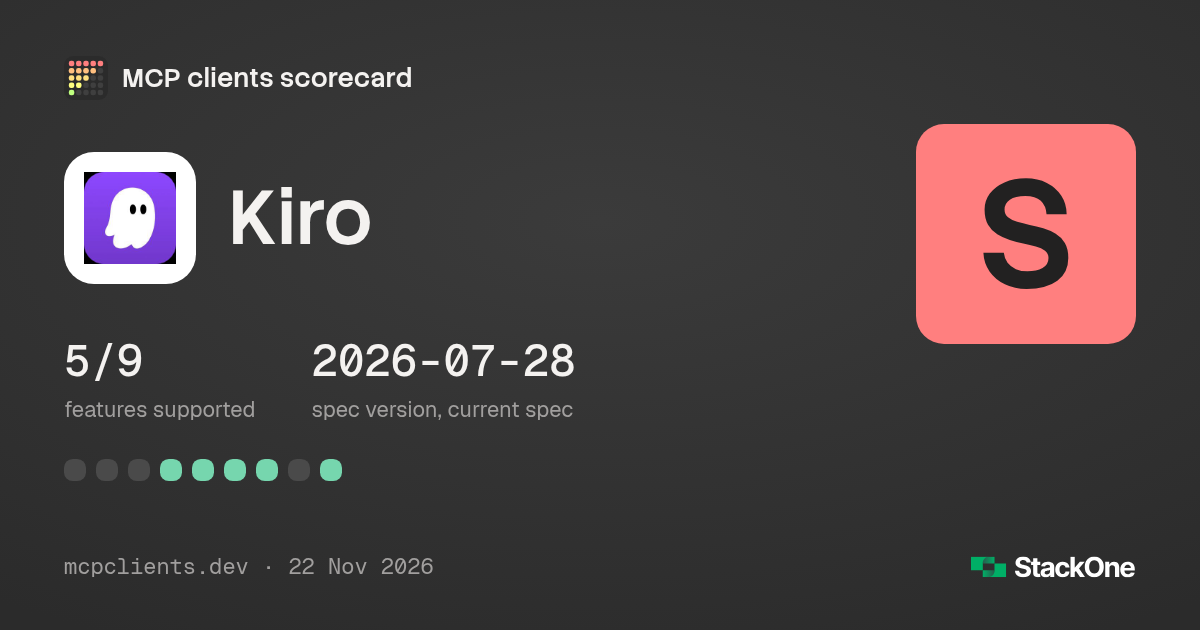
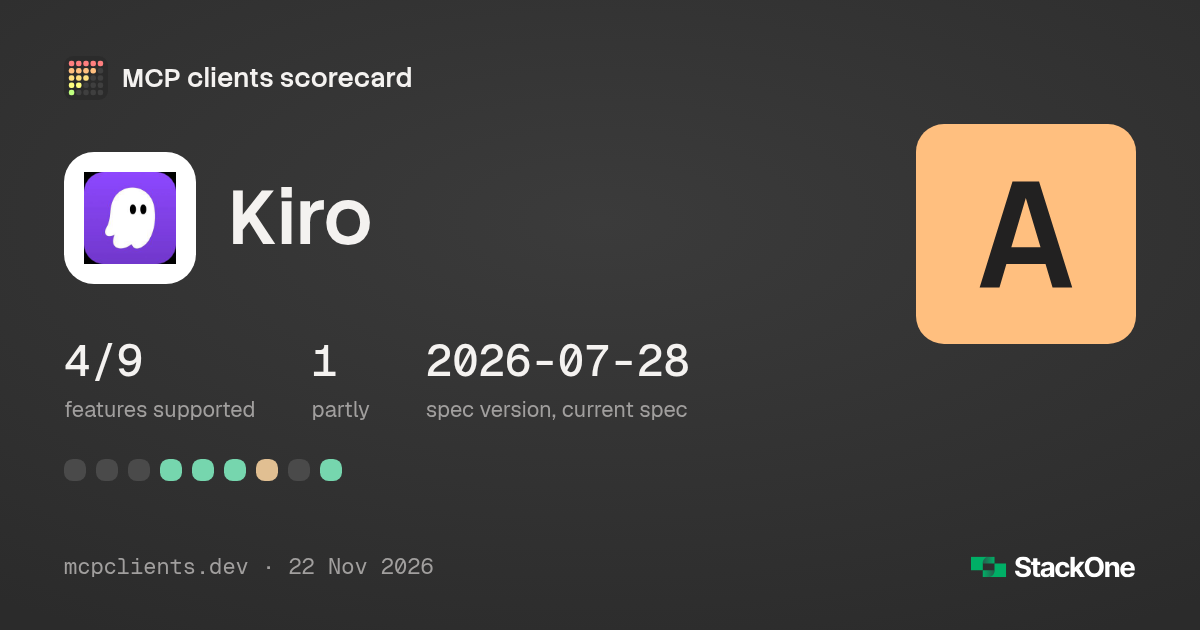
fix: Cubic review: Kiro live tool lists partly (tier A), pinned Kiro source, Vibe Apps and spec milestone sources

diff --git a/README.md b/README.md
@@ -21,7 +21,7 @@ The last 30 days to 22 Nov 2026. Clients: 12 · Feature support: 17 · Tier move
 | 2026-11-22 | Client | [Auggie](EVIDENCE.md#auggie) joins the board in C tier |
 | 2026-11-22 | Client | [JetBrains AI Assistant](EVIDENCE.md#jetbrains-ai-assistant) joins the board in C tier |
 | 2026-11-22 | Client | [Kilo Code](EVIDENCE.md#kilo-code) joins the board in A tier |
-| 2026-11-22 | Client | [Kiro](EVIDENCE.md#kiro) joins the board in S tier |
+| 2026-11-22 | Client | [Kiro](EVIDENCE.md#kiro) joins the board in A tier |
 | 2026-11-22 | Client | [LM Studio](EVIDENCE.md#lm-studio) joins the board in C tier |
 | 2026-11-22 | Client | [Mistral Vibe](EVIDENCE.md#mistral-vibe) joins the board in C tier |
 | 2026-11-22 | Client | [Qwen Code](EVIDENCE.md#qwen-code) joins the board in B tier |
@@ -78,7 +78,7 @@ The last 30 days to 22 Nov 2026. Clients: 12 · Feature support: 17 · Tier move
 | 2026-05-05 | Feature | [Copilot CLI](EVIDENCE.md#copilot-cli) ships Tasks (partly) in 1.0.41 ([source](https://github.com/github/copilot-cli/releases/tag/v1.0.41)) |
 | 2026-04-23 | Feature | [goose](EVIDENCE.md#goose) ships CIMD in 1.32.0 ([source](https://github.com/aaif-goose/goose/releases/tag/v1.32.0)) |
 | 2026-04-10 | Feature | [Codex](EVIDENCE.md#codex) ships Tool search in 0.119.0 ([source](https://github.com/openai/codex/releases/tag/rust-v0.119.0)) |
-| 2026-04-09 | Spec | Events design sketch published (draft, not a released spec) ([source](https://github.com/modelcontextprotocol/experimental-ext-triggers-events)) |
+| 2026-04-09 | Spec | Events design sketch published (draft, not a released spec) ([source](https://github.com/modelcontextprotocol/experimental-ext-triggers-events/commits/main)) |
 | 2026-04-01 | Feature | [Zed](EVIDENCE.md#zed) ships CIMD in v0.230.0 ([source](https://github.com/zed-industries/zed/releases/tag/v0.230.0)) |
 | 2026-03-20 | Feature | [Claude Code](EVIDENCE.md#claude-code) ships CIMD in 2.1.81 ([source](https://github.com/anthropics/claude-code/releases/tag/v2.1.81)) |
 | 2026-03-14 | Feature | [Claude Code](EVIDENCE.md#claude-code) ships Elicitation in 2.1.76 ([source](https://github.com/anthropics/claude-code/releases/tag/v2.1.76)) |
@@ -90,7 +90,7 @@ The last 30 days to 22 Nov 2026. Clients: 12 · Feature support: 17 · Tier move
 | 2026-02-04 | Feature | [VS Code](EVIDENCE.md#vs-code) ships MCP Apps in 1.109 ([source](https://code.visualstudio.com/updates/v1_109#_support-for-mcp-apps)) |
 | 2026-02-04 | Feature | [VS Code](EVIDENCE.md#vs-code) ships Tool search in 1.109 ([source](https://code.visualstudio.com/updates/v1_109#_anthropic-models)) |
 | 2026-01-26 | Feature | [Claude app](EVIDENCE.md#claude-app) ships MCP Apps ([source](https://claude.com/resources/articles/interactive-tools-in-claude)) |
-| 2026-01-26 | Spec | MCP Apps becomes an official extension ([source](https://modelcontextprotocol.io/extensions/apps/overview)) |
+| 2026-01-26 | Spec | MCP Apps becomes an official extension ([source](https://blog.modelcontextprotocol.io/posts/2026-01-26-mcp-apps/)) |
 | 2026-01-14 | Feature | [Claude Code](EVIDENCE.md#claude-code) ships Tool search in 2.1.7 ([source](https://github.com/anthropics/claude-code/releases/tag/v2.1.7)) |
 | 2026-01-06 | Feature | [Cursor](EVIDENCE.md#cursor) ships Tool search ([source](https://cursor.com/blog/dynamic-context-discovery)) |
 | 2026-01-06 | Feature | [goose](EVIDENCE.md#goose) ships MCP Apps in 1.19.0 ([source](https://github.com/aaif-goose/goose/releases/tag/v1.19.0)) |
@@ -100,14 +100,14 @@ The last 30 days to 22 Nov 2026. Clients: 12 · Feature support: 17 · Tier move
 | 2025-12-18 | Feature | [goose](EVIDENCE.md#goose) ships Tool search (partly) in 1.17.0 ([source](https://github.com/aaif-goose/goose/releases/tag/v1.17.0)) |
 | 2025-12-10 | Feature | [VS Code](EVIDENCE.md#vs-code) ships Tasks in 1.107 ([source](https://code.visualstudio.com/updates/v1_107#_support-for-the-latest-mcp-specification)) |
 | 2025-12-02 | Feature | [Codex](EVIDENCE.md#codex) ships Elicitation in 0.64.0 ([source](https://github.com/openai/codex/releases/tag/rust-v0.64.0)) |
-| 2025-11-25 | Spec | CIMD enters the spec ([source](https://modelcontextprotocol.io/specification/2026-07-28/basic/authorization/client-registration)) |
+| 2025-11-25 | Spec | CIMD enters the spec ([source](https://modelcontextprotocol.io/specification/2025-11-25/changelog)) |
 | 2025-11-25 | Spec | MCP spec 2025-11-25 released ([source](https://modelcontextprotocol.io/specification/2025-11-25)) |
-| 2025-11-25 | Spec | Tasks enter the spec as experimental ([source](https://modelcontextprotocol.io/extensions/tasks/overview)) |
+| 2025-11-25 | Spec | Tasks enter the spec as experimental ([source](https://modelcontextprotocol.io/specification/2025-11-25/changelog)) |
 | 2025-11-12 | Feature | [VS Code](EVIDENCE.md#vs-code) ships CIMD in 1.106 ([source](https://code.visualstudio.com/updates/v1_106#_authentication-client-id-metadata-document-authentication-flow)) |
-| 2025-10-21 | Spec | Enterprise-Managed Authorization merged into ext-auth ([source](https://modelcontextprotocol.io/extensions/auth/enterprise-managed-authorization)) |
+| 2025-10-21 | Spec | Enterprise-Managed Authorization merged into ext-auth ([source](https://github.com/modelcontextprotocol/ext-auth/pull/4)) |
 | 2025-08-21 | Feature | [Cursor](EVIDENCE.md#cursor) ships Elicitation (partly) in 1.5 ([source](https://cursor.com/changelog/1-5)) |
 | 2025-07-09 | Feature | [VS Code](EVIDENCE.md#vs-code) ships Elicitation in 1.102 ([source](https://code.visualstudio.com/updates/v1_102#_support-for-elicitations)) |
-| 2025-06-18 | Spec | Elicitation enters the spec ([source](https://modelcontextprotocol.io/specification/2026-07-28/client/elicitation)) |
+| 2025-06-18 | Spec | Elicitation enters the spec ([source](https://modelcontextprotocol.io/specification/2025-06-18/changelog)) |
 | 2025-06-18 | Spec | MCP spec 2025-06-18 released ([source](https://modelcontextprotocol.io/specification/2025-06-18)) |
 | 2025-03-26 | Spec | MCP spec 2025-03-26 released ([source](https://modelcontextprotocol.io/specification/2025-03-26)) |
 | 2024-11-05 | Spec | MCP spec 2024-11-05 released ([source](https://modelcontextprotocol.io/specification/2024-11-05)) |
@@ -146,7 +146,7 @@ As of 22 Nov 2026. Click any cell for its source, or a client name for the full 
 | --- | --- | --- | --- | --- | --- | --- | --- | --- | --- | --- | --- | --- | --- |
 | **S** | [VS Code](EVIDENCE.md#vs-code) [↗](https://code.visualstudio.com) | `1.144.0` | [47% of 367](https://github.com/microsoft/vscode/issues) | [![one version behind](assets/icons/spec-behind.svg) 2025-11-25](https://github.com/microsoft/vscode/blob/2c33b50b16c472efe58357d1d2a8a5414bc23fbf/src/vs/workbench/contrib/mcp/common/mcpServerRequestHandler.ts#L116) | [![yes](assets/icons/y.svg)](https://github.com/microsoft/vscode/blob/2c33b50b16c472efe58357d1d2a8a5414bc23fbf/src/vs/workbench/contrib/mcp/common/mcpServerRequestHandler.ts#L130) | [![yes](assets/icons/y.svg)](https://github.com/microsoft/vscode/blob/2c33b50b16c472efe58357d1d2a8a5414bc23fbf/src/vs/workbench/contrib/mcp/common/mcpServer.ts#L1404) | [![no](assets/icons/n.svg)](https://github.com/microsoft/vscode/tree/2c33b50b16c472efe58357d1d2a8a5414bc23fbf/src/vs/workbench/contrib/mcp) | [![yes](assets/icons/y.svg)](https://github.com/microsoft/vscode/blob/2c33b50b16c472efe58357d1d2a8a5414bc23fbf/src/vs/workbench/api/browser/mainThreadAuthentication.ts#L193) | [![yes](assets/icons/y.svg)](https://github.com/microsoft/vscode/blob/2c33b50b16c472efe58357d1d2a8a5414bc23fbf/src/vs/base/common/oauth.ts#L35) | [![yes](assets/icons/y.svg)](https://github.com/microsoft/vscode/blob/2c33b50b16c472efe58357d1d2a8a5414bc23fbf/src/vs/workbench/contrib/mcp/common/mcpServerRequestHandler.ts#L120) | [![yes](assets/icons/y.svg)](https://github.com/microsoft/vscode/blob/1.144.0/src/vs/workbench/contrib/mcp/common/mcpServer.ts#L1238-L1241) | [![no](assets/icons/n.svg)](https://github.com/microsoft/vscode/tree/2c33b50b16c472efe58357d1d2a8a5414bc23fbf/src/vs/workbench/contrib/mcp) | [![yes](assets/icons/y.svg) Embeddings](https://github.com/microsoft/vscode/blob/2c33b50b16c472efe58357d1d2a8a5414bc23fbf/extensions/copilot/src/extension/tools/node/toolSearchTool.ts) |
 | **S** | [goose](EVIDENCE.md#goose) [↗](https://goose-docs.ai) | `1.57.0` | [55% of 82](https://github.com/aaif-goose/goose/issues) | [![current spec](assets/icons/spec-current.svg) 2026-07-28 (falls back to 2025-11-25)](https://github.com/aaif-goose/goose/blob/30bba95105e59bc3e7df624cf6b4d433690cfe12/crates/goose/src/agents/mcp_client.rs#L549) | [![yes](assets/icons/y.svg)](https://github.com/aaif-goose/goose/blob/30bba95105e59bc3e7df624cf6b4d433690cfe12/crates/goose/src/agents/mcp_client.rs#L47) | [![no](assets/icons/n.svg)](https://github.com/aaif-goose/goose/blob/30bba95105e59bc3e7df624cf6b4d433690cfe12/crates/goose/src/agents/mcp_client.rs#L443) | [![no](assets/icons/n.svg)](https://github.com/aaif-goose/goose/tree/30bba95105e59bc3e7df624cf6b4d433690cfe12/crates) | [![yes](assets/icons/y.svg)](https://github.com/aaif-goose/goose/blob/30bba95105e59bc3e7df624cf6b4d433690cfe12/crates/goose/src/oauth/mod.rs#L25) | [![no](assets/icons/n.svg)](https://github.com/aaif-goose/goose/tree/30bba95105e59bc3e7df624cf6b4d433690cfe12/crates/goose/src/oauth) | [![partial](assets/icons/p.svg)](https://github.com/aaif-goose/goose/blob/30bba95105e59bc3e7df624cf6b4d433690cfe12/documentation/docs/guides/mcp-elicitation.md#L16) | [![yes](assets/icons/y.svg)](https://github.com/aaif-goose/goose/blob/v1.57.0/crates/goose/src/agents/mcp_client.rs#L358) | [![yes](assets/icons/y.svg)](https://github.com/aaif-goose/goose/blob/30bba95105e59bc3e7df624cf6b4d433690cfe12/documentation/docs/guides/managing-tools/code-mode.md#L25) | [![partial](assets/icons/p.svg)](https://github.com/aaif-goose/goose/blob/30bba95105e59bc3e7df624cf6b4d433690cfe12/crates/goose/src/agents/platform_extensions/code_execution.rs#L277) |
-| **S** | [Kiro](EVIDENCE.md#kiro) [↗](https://kiro.dev) | `3.5.0` | [30% of 107](https://github.com/kirodotdev/Kiro/issues) | [![current spec](assets/icons/spec-current.svg) 2026-07-28](https://desktop-release.q.us-east-1.amazonaws.com/latest/kirocli-x86_64-linux.zip) | [![no](assets/icons/n.svg)](https://github.com/kirodotdev/Kiro/issues/11048) | [![no](assets/icons/n.svg)](https://kiro.dev/docs/mcp/) | [![no](assets/icons/n.svg)](https://kiro.dev/docs/mcp/) | [![yes](assets/icons/y.svg)](https://kiro.dev/docs/mcp/configuration/) | [![yes](assets/icons/y.svg)](https://kiro.dev/docs/mcp/configuration/) | [![yes](assets/icons/y.svg)](https://kiro.dev/docs/mcp/usage/) | [![yes](assets/icons/y.svg)](https://github.com/kirodotdev/Kiro/issues/6553) | [![no](assets/icons/n.svg)](https://kiro.dev/docs/mcp/) | [![yes](assets/icons/y.svg) Catalog](https://kiro.dev/docs/mcp/tool-search/) |
+| **A** | [Kiro](EVIDENCE.md#kiro) [↗](https://kiro.dev) | `3.5.0` | [30% of 107](https://github.com/kirodotdev/Kiro/issues) | [![current spec](assets/icons/spec-current.svg) 2026-07-28](https://desktop-release.q.us-east-1.amazonaws.com/3.5.0/kirocli-x86_64-linux.zip) | [![no](assets/icons/n.svg)](https://github.com/kirodotdev/Kiro/issues/11048) | [![no](assets/icons/n.svg)](https://kiro.dev/docs/mcp/) | [![no](assets/icons/n.svg)](https://kiro.dev/docs/mcp/) | [![yes](assets/icons/y.svg)](https://kiro.dev/docs/mcp/configuration/) | [![yes](assets/icons/y.svg)](https://kiro.dev/docs/mcp/configuration/) | [![yes](assets/icons/y.svg)](https://kiro.dev/docs/mcp/usage/) | [![partial](assets/icons/p.svg)](https://github.com/kirodotdev/Kiro/issues/6553) | [![no](assets/icons/n.svg)](https://kiro.dev/docs/mcp/) | [![yes](assets/icons/y.svg) Catalog](https://kiro.dev/docs/mcp/tool-search/) |
 | **A** | [Claude app](EVIDENCE.md#claude-app) [↗](https://claude.com/product/overview) | hosted | [13% of 592](https://github.com/anthropics/claude-ai-mcp/issues) | [![not published](assets/icons/spec-unknown.svg) not published](https://claude.com/docs/connectors/building) | [![yes](assets/icons/y.svg)](https://claude.com/docs/connectors/building/mcp-apps/getting-started) | [![no](assets/icons/n.svg)](https://code.claude.com/docs/en/mcp) | [![no](assets/icons/n.svg)](https://claude.com/docs/connectors/building) | [![yes](assets/icons/y.svg)](https://claude.com/docs/connectors/building/authentication) | [![yes](assets/icons/y.svg)](https://claude.com/docs/connectors/building/enterprise-managed-auth) | [![no](assets/icons/n.svg)](https://github.com/anthropics/claude-ai-mcp/issues/1085) | [![no](assets/icons/n.svg)](https://github.com/anthropics/claude-ai-mcp/issues/45) | [![no](assets/icons/n.svg)](https://claude.com/docs/cowork/changelog) | [![yes](assets/icons/y.svg) Deferred](https://support.claude.com/en/articles/13730515-manage-claude-s-tool-access) |
 | **A** | [Cursor](EVIDENCE.md#cursor) [↗](https://cursor.com) | `3.27.22` | no public tracker | [![one version behind](assets/icons/spec-behind.svg) 2025-11-25](https://downloads.cursor.com/production/b1aa50cb6db84fd3e8c808259cb172ea73425c1f/linux/x64/Cursor-3.27.22-x86_64.AppImage) | [![yes](assets/icons/y.svg)](https://downloads.cursor.com/production/b1aa50cb6db84fd3e8c808259cb172ea73425c1f/linux/x64/Cursor-3.27.22-x86_64.AppImage) | [![no](assets/icons/n.svg)](https://downloads.cursor.com/production/b1aa50cb6db84fd3e8c808259cb172ea73425c1f/linux/x64/Cursor-3.27.22-x86_64.AppImage) | [![no](assets/icons/n.svg)](https://downloads.cursor.com/production/b1aa50cb6db84fd3e8c808259cb172ea73425c1f/linux/x64/Cursor-3.27.22-x86_64.AppImage) | [![no](assets/icons/n.svg)](https://downloads.cursor.com/production/b1aa50cb6db84fd3e8c808259cb172ea73425c1f/linux/x64/Cursor-3.27.22-x86_64.AppImage) | [![no](assets/icons/n.svg)](https://downloads.cursor.com/production/b1aa50cb6db84fd3e8c808259cb172ea73425c1f/linux/x64/Cursor-3.27.22-x86_64.AppImage) | [![partial](assets/icons/p.svg)](https://downloads.cursor.com/production/b1aa50cb6db84fd3e8c808259cb172ea73425c1f/linux/x64/Cursor-3.27.22-x86_64.AppImage) | [![yes](assets/icons/y.svg)](https://downloads.cursor.com/production/b1aa50cb6db84fd3e8c808259cb172ea73425c1f/linux/x64/Cursor-3.27.22-x86_64.AppImage) | [![no](assets/icons/n.svg)](https://downloads.cursor.com/production/b1aa50cb6db84fd3e8c808259cb172ea73425c1f/linux/x64/Cursor-3.27.22-x86_64.AppImage) | [![yes](assets/icons/y.svg) Files](https://cursor.com/blog/dynamic-context-discovery) |
 | **A** | [ChatGPT](EVIDENCE.md#chatgpt) [↗](https://chatgpt.com) | hosted | no public tracker | [![current spec](assets/icons/spec-current.svg) 2026-07-28](https://developers.openai.com/plugins/build/mcp-events) | [![yes](assets/icons/y.svg)](https://developers.openai.com/apps-sdk/mcp-apps-in-chatgpt.md) | [![no](assets/icons/n.svg)](https://developers.openai.com/plugins/build/mcp-server) | [![partial](assets/icons/p.svg)](https://developers.openai.com/plugins/build/mcp-events) | [![yes](assets/icons/y.svg)](https://developers.openai.com/plugins/build/auth) | [![no](assets/icons/n.svg)](https://developers.openai.com/plugins/build/auth) | [![partial](assets/icons/p.svg)](https://developers.openai.com/plugins/build/mcp-server) | [![no](assets/icons/n.svg)](https://help.openai.com/en/articles/12584461-developer-mode-and-mcp-apps-in-chatgpt) | [![no](assets/icons/n.svg)](https://developers.openai.com/api/docs/guides/tools) | [![no](assets/icons/n.svg)](https://developers.openai.com/api/docs/guides/tools-connectors-mcp) |
@@ -155,7 +155,7 @@ As of 22 Nov 2026. Click any cell for its source, or a client name for the full 
 | **C** | [Windsurf](EVIDENCE.md#windsurf) [↗](https://devin.ai/desktop) | `3.11.234` | no public tracker | [![current spec](assets/icons/spec-current.svg) 2026-07-28](https://static.devin.ai/cli/3000.11.234/devin-3000.11.234-x86_64-unknown-linux.tar.gz) | [![partial](assets/icons/p.svg)](https://static.devin.ai/cli/3000.11.234/devin-3000.11.234-x86_64-unknown-linux.tar.gz) | [![no](assets/icons/n.svg)](https://static.devin.ai/cli/3000.11.234/devin-3000.11.234-x86_64-unknown-linux.tar.gz) | [![no](assets/icons/n.svg)](https://static.devin.ai/cli/3000.11.234/devin-3000.11.234-x86_64-unknown-linux.tar.gz) | [![no](assets/icons/n.svg)](https://static.devin.ai/cli/3000.11.234/devin-3000.11.234-x86_64-unknown-linux.tar.gz) | [![no](assets/icons/n.svg)](https://static.devin.ai/cli/3000.11.234/devin-3000.11.234-x86_64-unknown-linux.tar.gz) | [![no](assets/icons/n.svg)](https://static.devin.ai/cli/3000.11.234/devin-3000.11.234-x86_64-unknown-linux.tar.gz) | [![no](assets/icons/n.svg)](https://docs.devin.ai/windsurf/plugins/cascade/mcp) | [![no](assets/icons/n.svg)](https://static.devin.ai/cli/3000.11.234/devin-3000.11.234-x86_64-unknown-linux.tar.gz) | [![yes](assets/icons/y.svg) Deferred](https://static.devin.ai/cli/3000.11.234/devin-3000.11.234-x86_64-unknown-linux.tar.gz) |
 | **C** | [Cline](EVIDENCE.md#cline) [↗](https://cline.bot) | `4.1.26` | [12% of 52](https://github.com/cline/cline/issues) | [![one version behind](assets/icons/spec-behind.svg) 2025-11-25](https://github.com/cline/cline/blob/a459f1d04dea030833b558be645011ab739c463b/apps/vscode/src/services/mcp/McpHub.ts#L466) | [![no](assets/icons/n.svg)](https://github.com/cline/cline/blob/a459f1d04dea030833b558be645011ab739c463b/sdk/DOC.md#L513) | [![no](assets/icons/n.svg)](https://github.com/cline/cline/tree/a459f1d04dea030833b558be645011ab739c463b/apps) | [![no](assets/icons/n.svg)](https://github.com/cline/cline/tree/a459f1d04dea030833b558be645011ab739c463b/apps) | [![no](assets/icons/n.svg)](https://github.com/cline/cline/tree/a459f1d04dea030833b558be645011ab739c463b/apps/vscode/src/services/mcp) | [![no](assets/icons/n.svg)](https://github.com/cline/cline/tree/a459f1d04dea030833b558be645011ab739c463b/apps) | [![no](assets/icons/n.svg)](https://github.com/cline/cline/blob/a459f1d04dea030833b558be645011ab739c463b/apps/vscode/src/services/mcp/McpHub.ts#L472) | [![yes](assets/icons/y.svg)](https://github.com/cline/cline/blob/v4.1.26/apps/vscode/src/services/mcp/McpHub.ts#L769) | [![no](assets/icons/n.svg)](https://github.com/cline/cline/tree/a459f1d04dea030833b558be645011ab739c463b/apps) | [![no](assets/icons/n.svg)](https://github.com/cline/cline/tree/a459f1d04dea030833b558be645011ab739c463b/sdk/packages/core/src) |
 | **C** | [Warp](EVIDENCE.md#warp) [↗](https://www.warp.dev) | `0.2026.11.11.08.17` | [too few issues](https://github.com/warpdotdev/warp/issues) | [![current spec](assets/icons/spec-current.svg) 2026-07-28](https://github.com/warpdotdev/warp/blob/f8223cef2d167a5858bf233df8a1fb6f74537fa5/crates/mcp/src/runtime.rs#L654-L658) | [![no](assets/icons/n.svg)](https://github.com/warpdotdev/warp/blob/f8223cef2d167a5858bf233df8a1fb6f74537fa5/crates/mcp/src/runtime.rs#L905-L917) | [![no](assets/icons/n.svg)](https://github.com/warpdotdev/warp/blob/f8223cef2d167a5858bf233df8a1fb6f74537fa5/crates/mcp/src/runtime.rs#L905-L917) | [![no](assets/icons/n.svg)](https://github.com/warpdotdev/warp/blob/f8223cef2d167a5858bf233df8a1fb6f74537fa5/crates/mcp/src/runtime.rs#L905-L917) | [![no](assets/icons/n.svg)](https://github.com/warpdotdev/warp/blob/f8223cef2d167a5858bf233df8a1fb6f74537fa5/crates/mcp/src/oauth.rs#L346-L398) | [![no](assets/icons/n.svg)](https://docs.warp.dev/agents/capabilities/mcp) | [![no](assets/icons/n.svg)](https://github.com/warpdotdev/warp/blob/f8223cef2d167a5858bf233df8a1fb6f74537fa5/crates/mcp/src/runtime.rs#L905-L917) | [![no](assets/icons/n.svg)](https://github.com/modelcontextprotocol/rust-sdk/blob/0cde3c5cf3e6aff0cc852ce6045f107e95991f48/crates/rmcp/src/handler/client.rs#L241-L246) | [![no](assets/icons/n.svg)](https://docs.warp.dev/agents/capabilities/mcp) | [![yes](assets/icons/y.svg) LLM subagent](https://www.warp.dev/blog/mcp-search-subagent) |
-| **C** | [Mistral Vibe](EVIDENCE.md#mistral-vibe) [↗](https://mistral.ai/products/le-chat) | hosted | no public tracker | [![not published](assets/icons/spec-unknown.svg) not published](https://docs.mistral.ai/vibe/work/connectors/mcp-connectors) | [![partial](assets/icons/p.svg)](https://docs.mistral.ai/studio/workflows/building-workflows/connectors) | [![no](assets/icons/n.svg)](https://docs.mistral.ai/vibe/work/connectors/mcp-connectors) | [![no](assets/icons/n.svg)](https://docs.mistral.ai/vibe/work/connectors/mcp-connectors) | [![no](assets/icons/n.svg)](https://docs.mistral.ai/vibe/work/connectors/mcp-connectors) | [![no](assets/icons/n.svg)](https://docs.mistral.ai/vibe/work/connectors/mcp-connectors) | [![no](assets/icons/n.svg)](https://docs.mistral.ai/vibe/work/connectors/mcp-connectors) | [![no](assets/icons/n.svg)](https://docs.mistral.ai/vibe/work/connectors/mcp-connectors) | [![no](assets/icons/n.svg)](https://docs.mistral.ai/vibe/work/connectors/mcp-connectors) | [![no](assets/icons/n.svg)](https://docs.mistral.ai/vibe/work/connectors/mcp-connectors) |
+| **C** | [Mistral Vibe](EVIDENCE.md#mistral-vibe) [↗](https://mistral.ai/products/le-chat) | hosted | no public tracker | [![not published](assets/icons/spec-unknown.svg) not published](https://docs.mistral.ai/vibe/work/connectors/mcp-connectors) | [![partial](assets/icons/p.svg)](https://docs.mistral.ai/resources/release-notes) | [![no](assets/icons/n.svg)](https://docs.mistral.ai/vibe/work/connectors/mcp-connectors) | [![no](assets/icons/n.svg)](https://docs.mistral.ai/vibe/work/connectors/mcp-connectors) | [![no](assets/icons/n.svg)](https://docs.mistral.ai/vibe/work/connectors/mcp-connectors) | [![no](assets/icons/n.svg)](https://docs.mistral.ai/vibe/work/connectors/mcp-connectors) | [![no](assets/icons/n.svg)](https://docs.mistral.ai/vibe/work/connectors/mcp-connectors) | [![no](assets/icons/n.svg)](https://docs.mistral.ai/vibe/work/connectors/mcp-connectors) | [![no](assets/icons/n.svg)](https://docs.mistral.ai/vibe/work/connectors/mcp-connectors) | [![no](assets/icons/n.svg)](https://docs.mistral.ai/vibe/work/connectors/mcp-connectors) |
 | **C** | [JetBrains AI Assistant](EVIDENCE.md#jetbrains-ai-assistant) [↗](https://www.jetbrains.com/ai-assistant/) | hosted | no public tracker | [![not published](assets/icons/spec-unknown.svg) not published](https://www.jetbrains.com/help/ai-assistant/mcp.html) | [![no](assets/icons/n.svg)](https://www.jetbrains.com/help/ai-assistant/mcp.html) | [![no](assets/icons/n.svg)](https://www.jetbrains.com/help/ai-assistant/mcp.html) | [![no](assets/icons/n.svg)](https://www.jetbrains.com/help/ai-assistant/mcp.html) | [![no](assets/icons/n.svg)](https://youtrack.jetbrains.com/issue/LLM-24541) | [![no](assets/icons/n.svg)](https://youtrack.jetbrains.com/issue/LLM-24541) | [![no](assets/icons/n.svg)](https://www.jetbrains.com/help/ai-assistant/mcp.html) | [![no](assets/icons/n.svg)](https://www.jetbrains.com/help/ai-assistant/mcp.html) | [![no](assets/icons/n.svg)](https://www.jetbrains.com/help/ai-assistant/mcp.html) | [![no](assets/icons/n.svg)](https://www.jetbrains.com/help/ai-assistant/mcp.html) |
 | **C** | [LM Studio](EVIDENCE.md#lm-studio) [↗](https://lmstudio.ai) | `0.4.28` | [0% of 22](https://github.com/lmstudio-ai/lmstudio-bug-tracker/issues) | [![not published](assets/icons/spec-unknown.svg) not published](https://lmstudio.ai/docs/app/mcp) | [![no](assets/icons/n.svg)](https://github.com/lmstudio-ai/lmstudio-bug-tracker/issues/1634) | [![no](assets/icons/n.svg)](https://lmstudio.ai/docs/app/mcp) | [![no](assets/icons/n.svg)](https://lmstudio.ai/docs/app/mcp) | [![no](assets/icons/n.svg)](https://lmstudio.ai/docs/integrations/mcp-remote) | [![no](assets/icons/n.svg)](https://lmstudio.ai/docs/integrations/mcp-remote) | [![no](assets/icons/n.svg)](https://github.com/lmstudio-ai/lmstudio-bug-tracker/issues/977) | [![no](assets/icons/n.svg)](https://lmstudio.ai/docs/app/mcp) | [![no](assets/icons/n.svg)](https://lmstudio.ai/docs/app/mcp) | [![no](assets/icons/n.svg)](https://lmstudio.ai/docs/app/mcp) |
 
@@ -200,7 +200,7 @@ Code mode and Tool search are marked harness: they are how the client handles to
 | CIMD | 13 | 0 | 14 | 0 |
 | ID-JAG | 4 | 1 | 22 | 0 |
 | Elicitation | 7 | 3 | 17 | 0 |
-| Live tool lists | 14 | 1 | 12 | 0 |
+| Live tool lists | 13 | 2 | 12 | 0 |
 | Code mode <sub>harness</sub> | 2 | 7 | 18 | 0 |
 | Tool search <sub>harness</sub> | 13 | 5 | 9 | 0 |
 <!-- features:end -->

diff --git a/EVIDENCE.md b/EVIDENCE.md
@@ -299,20 +299,20 @@ Tier **S** · App or IDE · version checked `1.57.0` · tracker [aaif-goose/goos
 
 ## Kiro
 
-Tier **S** · App or IDE · version checked `3.5.0` · tracker [kirodotdev/Kiro](https://github.com/kirodotdev/Kiro/issues) · MCP bugs fixed: 30% of 107
+Tier **A** · App or IDE · version checked `3.5.0` · tracker [kirodotdev/Kiro](https://github.com/kirodotdev/Kiro/issues) · MCP bugs fixed: 30% of 107
 
 [website](https://kiro.dev) · [docs](https://kiro.dev/docs/mcp/) · [repo](https://github.com/kirodotdev/Kiro) · [data file](data/clients/kiro.yaml)
 
 | Feature | Value | Evidence | Method | Checked | Shipped |
 | --- | --- | --- | --- | --- | --- |
-| Spec version | [![current spec](assets/icons/spec-current.svg) 2026-07-28](https://desktop-release.q.us-east-1.amazonaws.com/latest/kirocli-x86_64-linux.zip) | The Kiro CLI 3.5.0 binary (BUILD_DATE 2026-11-17, kirocli/bin/kiro-cli) carries a server/discover lifecycle with 2026-07-28 and legacy fallback strings ("server/discover rejected with HTTP", NoCompatibleProtocolVersion, LegacyFallbackFailed) in its bundled MCP SDK; docs name no revision, the live handshake could not be run without a Kiro login, and the IDE build was not inspected | source | 2026-11-22 |  |
+| Spec version | [![current spec](assets/icons/spec-current.svg) 2026-07-28](https://desktop-release.q.us-east-1.amazonaws.com/3.5.0/kirocli-x86_64-linux.zip) | The Kiro CLI 3.5.0 binary (BUILD_DATE 2026-11-17, kirocli/bin/kiro-cli) carries a server/discover lifecycle with 2026-07-28 and legacy fallback strings ("server/discover rejected with HTTP", NoCompatibleProtocolVersion, LegacyFallbackFailed) in its bundled MCP SDK; docs name no revision, the live handshake could not be run without a Kiro login, and the IDE build was not inspected | source | 2026-11-22 |  |
 | MCP Apps | [![no](assets/icons/n.svg)](https://github.com/kirodotdev/Kiro/issues/11048) | Open feature request for native MCP Apps (ui:// resources) in chat; a maintainer logged it as a feature request on 2026-09-21, and the MCP docs list no Apps support | issue | 2026-11-22 |  |
 | Tasks | [![no](assets/icons/n.svg)](https://kiro.dev/docs/mcp/) | The MCP docs list tools, prompts, resources and elicitation and no tasks support; not documented | docs | 2026-11-22 |  |
 | Events | [![no](assets/icons/n.svg)](https://kiro.dev/docs/mcp/) | The MCP docs describe no server-pushed events; not documented | docs | 2026-11-22 |  |
 | CIMD | [![yes](assets/icons/y.svg)](https://kiro.dev/docs/mcp/configuration/) | Docs: when the authorization server supports Client ID Metadata Documents and offers no registration endpoint, Kiro signs in with its own hosted document (https://kiro.dev/oauth/client-metadata.json), and oauth.clientMetadataUrl sets your own; CLI 3.2.0 and IDE 1.4.178 or later, otherwise DCR | docs | 2026-11-22 | [2026-11-10 (3.2.0)](https://kiro.dev/changelog/cli/3-2/) |
 | ID-JAG | [![yes](assets/icons/y.svg)](https://kiro.dev/docs/mcp/configuration/) | Docs: from IDE 1.4.236 and CLI 3.5.0, eligible HTTP MCP servers share one organization sign-in through the company's identity provider (identityProvider issuer and clientId, oauth.mode enterprise or auto) and access is the organization's grant; the docs never use the name ID-JAG, but the 3.5.0 binary's bundled docs index tags kiro-cli mcp idp with enterprise-managed authorization and id-jag | docs | 2026-11-22 |  |
 | Elicitation | [![yes](assets/icons/y.svg)](https://kiro.dev/docs/mcp/usage/) | Docs: form elicitation renders an inline form (text, number, yes or no, choice) and URL elicitation shows the link with an Open button; documented for local V3 CLI sessions from 2.34 and the MCP overview lists elicitation for the IDE | docs | 2026-11-22 | [2026-10-23 (2.34.0)](https://kiro.dev/changelog/cli/2-34/) |
-| Live tool lists | [![yes](assets/icons/y.svg)](https://github.com/kirodotdev/Kiro/issues/6553) | Maintainer comment on 2026-07-23: resolved in CLI 2.14.0, where Kiro re-queries tools/list when it receives notifications/tools/list_changed (the V3 regression is fixed too); the fix version for the IDE was asked and not answered | issue | 2026-11-22 |  |
+| Live tool lists | [![partial](assets/icons/p.svg)](https://github.com/kirodotdev/Kiro/issues/6553) | Limited: the issue reports the Kiro IDE ignoring notifications/tools/list_changed; the maintainer closed it on 2026-07-23 as resolved in CLI 2.14.0, where Kiro re-queries tools/list (the V3 regression is fixed too), and the reporter's question about which IDE version has the fix is unanswered | issue | 2026-11-22 |  |
 | Code mode | [![no](assets/icons/n.svg)](https://kiro.dev/docs/mcp/) | The MCP docs and the tool pages describe one tool call per step and no code mode; not documented | docs | 2026-11-22 |  |
 | Tool search | [![yes](assets/icons/y.svg) Catalog](https://kiro.dev/docs/mcp/tool-search/) | Docs: Kiro indexes tool names and descriptions, the model gets a compact deferred catalog and loads a needed tool's full schema with tool_load by exact ID; on by default in IDE 1.3 and local V3 CLI 2.31, opt-in in V2; the docs do not describe a ranked search | docs | 2026-11-22 | [2026-10-13 (1.3.0)](https://kiro.dev/changelog/ide/1-3/) |
 
@@ -477,7 +477,7 @@ Tier **C** · App or IDE · MCP bugs fixed: no public tracker
 | Feature | Value | Evidence | Method | Checked | Shipped |
 | --- | --- | --- | --- | --- | --- |
 | Spec version | [![not published](assets/icons/spec-unknown.svg) not published](https://docs.mistral.ai/vibe/work/connectors/mcp-connectors) | The MCP Connectors docs name no protocol revision (hosted, closed source); troubleshooting only says the server must answer the initialize call | docs | 2026-11-22 |  |
-| MCP Apps | [![partial](assets/icons/p.svg)](https://docs.mistral.ai/studio/workflows/building-workflows/connectors) | Limited: Studio workflows surface a connector tool ui:// MCP App only with allow_mcp_ui=True (default False) and only for direct call_tool calls, and release notes (2026-10-14, 2026-11-05) show Mistral own Studio MCP apps rendering in Vibe; the custom connector docs do not list MCP Apps | docs | 2026-11-22 |  |
+| MCP Apps | [![partial](assets/icons/p.svg)](https://docs.mistral.ai/resources/release-notes) | Limited: the release notes say the Workflow Visualizer renders as an MCP App inside Vibe (2026-10-14) and Studio apps surface in Vibe Code Web through an MCP apps server (2026-11-05); for custom connectors, Studio workflows surface a connector tool ui:// MCP App only with allow_mcp_ui=True (default False) and only for direct call_tool calls, and the custom connector docs do not list MCP Apps | docs | 2026-11-22 |  |
 | Tasks | [![no](assets/icons/n.svg)](https://docs.mistral.ai/vibe/work/connectors/mcp-connectors) | Not documented: the custom connector docs list unsupported capabilities (dynamic tool discovery, resources, prompt templates) and do not mention tasks | docs | 2026-11-22 |  |
 | Events | [![no](assets/icons/n.svg)](https://docs.mistral.ai/vibe/work/connectors/mcp-connectors) | Not documented: no events or trigger support appears in the MCP Connectors docs | docs | 2026-11-22 |  |
 | CIMD | [![no](assets/icons/n.svg)](https://docs.mistral.ai/vibe/work/connectors/mcp-connectors) | Docs list OAuth 2.1 with dynamic client registration as the only OAuth option for custom connectors; CIMD is not mentioned | docs | 2026-11-22 |  |
